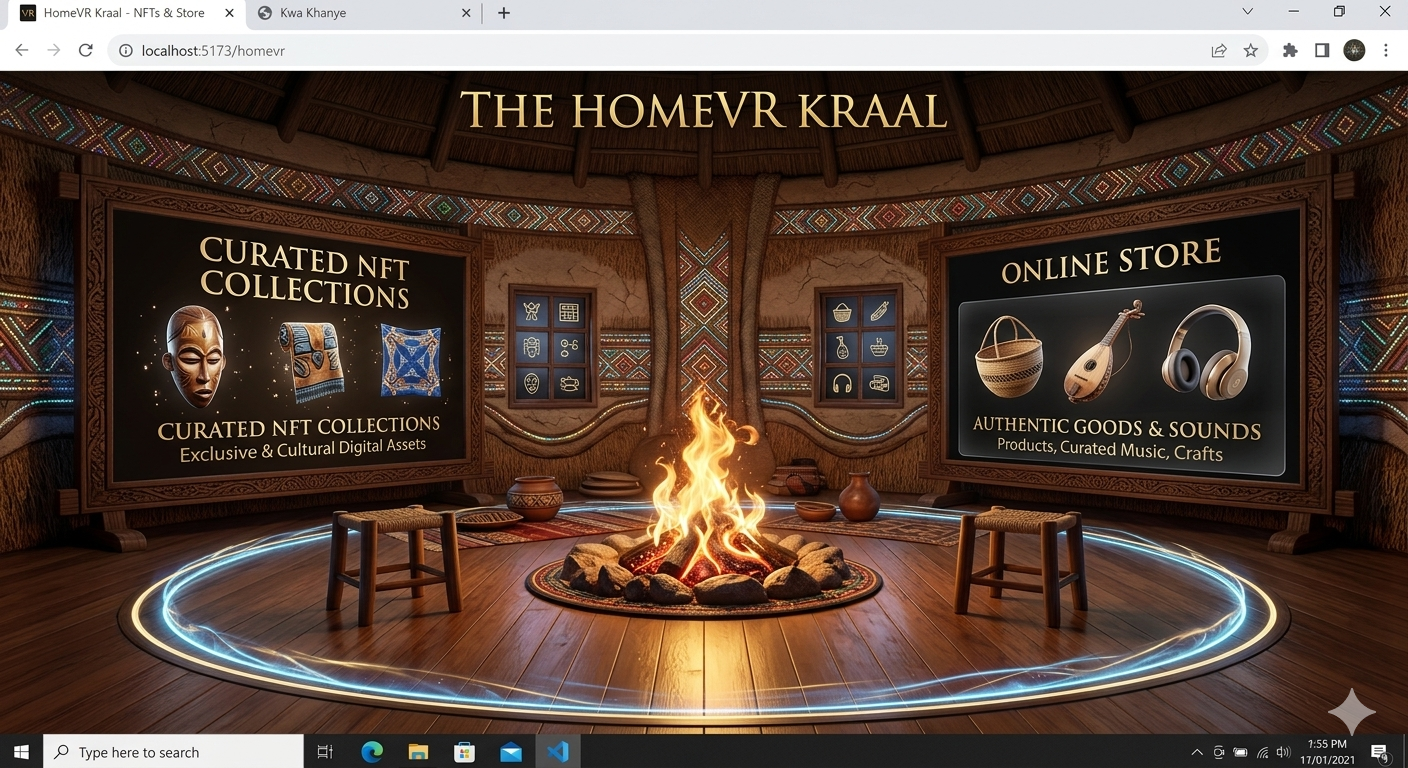
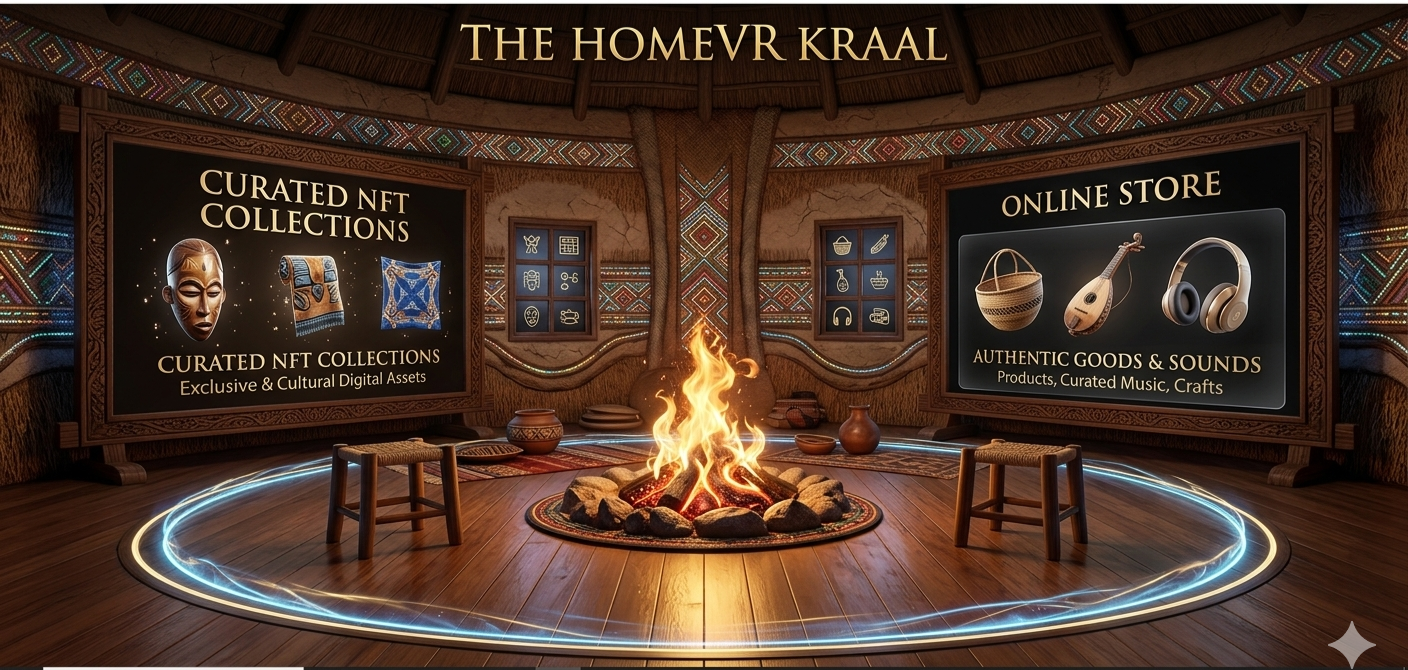
Added the home vr css

diff --git a/frontend/src/pages/HomeVR/HomeVR.jsx b/frontend/src/pages/HomeVR/HomeVR.jsx
@@ -3,6 +3,7 @@ import { useEffect } from 'react';
 import { useNavigate } from 'react-router-dom';
 import { supabase } from '../../supabase';
 import homeVRImage from '../../assets/images/HomeVR.png';
+import './HomeVR.css';
 
 export default function HomeVR() {
   const navigate = useNavigate();
@@ -16,49 +17,43 @@ export default function HomeVR() {
   }, [navigate]);
 
   return (
-    <div style={{
-      position: 'fixed',
-      top: 0,
-      left: 0,
-      width: '100%',
-      height: '100%',
-      backgroundImage: `url(${homeVRImage})`,
-      backgroundSize: 'cover',
-      backgroundPosition: 'center',
-      backgroundRepeat: 'no-repeat',
-      backgroundColor: '#0a0603',
-    }}>
-      {/* NFT FRAME HOTSPOT (left) — INVISIBLE */}
+    <div className="vr-container">
       <div
-        onClick={() => navigate('/nft')}
-        style={{
-          position: 'absolute',
-          left: '8.5%',
-          top: '25.4%',
-          width: '39.1%',
-          height: '47.5%',
-          zIndex: 20,
-          cursor: 'pointer',
-          background: 'transparent',
-          borderRadius: '2px',
-        }}
-      />
+        className="vr-image-container"
+        style={{ backgroundImage: `url(${homeVRImage})` }}
+      >
+        {/* NFT FRAME HOTSPOT (left) — INVISIBLE */}
+        <div
+          onClick={() => navigate('/nft')}
+          style={{
+            position: 'absolute',
+            left: '8.5%',
+            top: '25.4%',
+            width: '39.1%',
+            height: '47.5%',
+            zIndex: 20,
+            cursor: 'pointer',
+            background: 'transparent',
+            borderRadius: '2px',
+          }}
+        />
 
-      {/* ONLINE STORE FRAME HOTSPOT (right) — INVISIBLE */}
-      <div
-        onClick={() => navigate('/store')}
-        style={{
-          position: 'absolute',
-          left: '54.7%',
-          top: '25.4%',
-          width: '30.9%',
-          height: '47.5%',
-          zIndex: 20,
-          cursor: 'pointer',
-          background: 'transparent',
-          borderRadius: '2px',
-        }}
-      />
+        {/* ONLINE STORE FRAME HOTSPOT (right) — INVISIBLE */}
+        <div
+          onClick={() => navigate('/store')}
+          style={{
+            position: 'absolute',
+            left: '54.7%',
+            top: '25.4%',
+            width: '30.9%',
+            height: '47.5%',
+            zIndex: 20,
+            cursor: 'pointer',
+            background: 'transparent',
+            borderRadius: '2px',
+          }}
+        />
+      </div>
     </div>
   );
 }